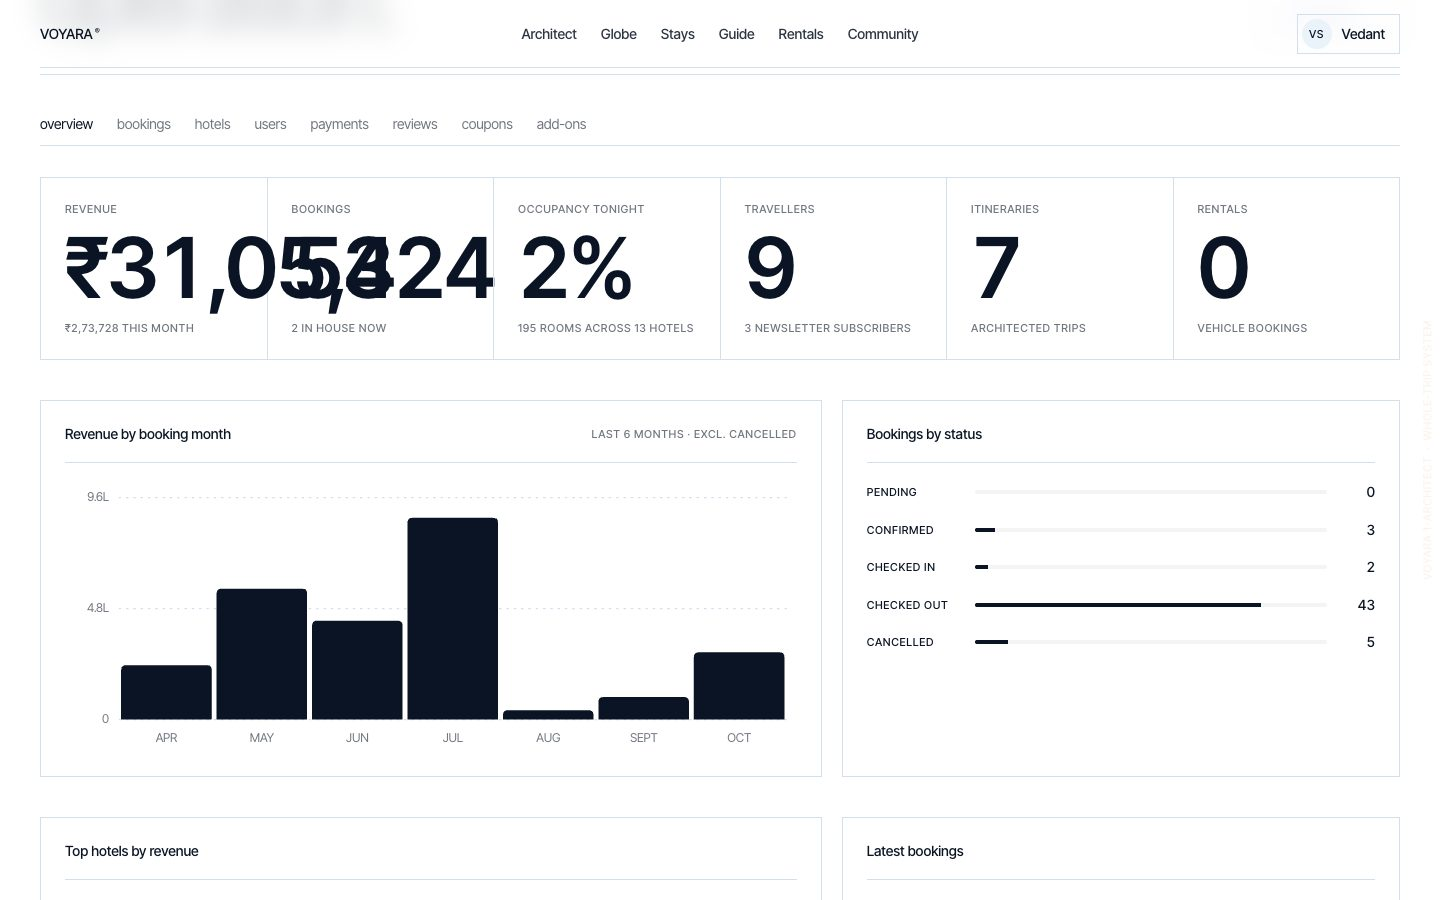
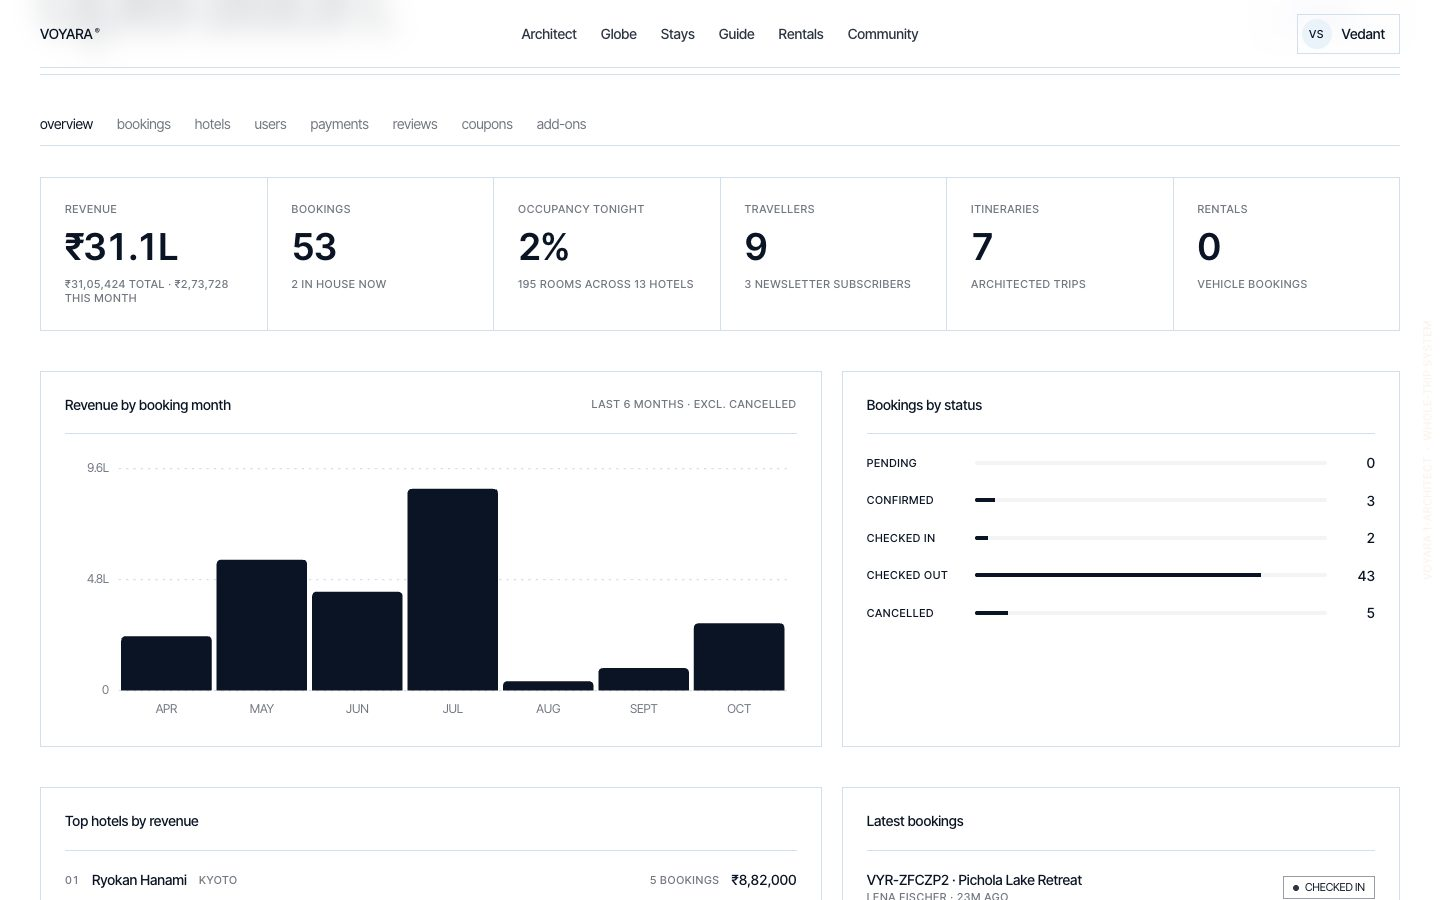
Fix admin stat overflow and README screen sizes
- Admin stat tiles: values sized to fit their cells; revenue shown as ₹31.1L
  with the exact total underneath (it overlapped the Bookings tile).
- Booking ticket reference uses heading size; display headlines leave room
  for descenders ("going." no longer clipped).
- README Screens: fixed-width image pairs instead of nested tables, refreshed
  admin and ticket screenshots.

diff --git a/frontend/src/pages/AdminDashboard.tsx b/frontend/src/pages/AdminDashboard.tsx
@@ -65,7 +65,7 @@ function Overview() {
   if (loading || !data) return <div className="grid-4">{Array.from({ length: 8 }, (_, i) => <div key={i} className="skeleton" style={{ height: 120 }} />)}</div>;
   const t = data.totals;
   const tiles: [string, string, string?][] = [
-    ['Revenue', money(t.revenue), `${money(t.revenueThisMonth)} this month`],
+    ['Revenue', `₹${compact(t.revenue)}`, `${money(t.revenue)} total · ${money(t.revenueThisMonth)} this month`],
     ['Bookings', String(t.bookings), `${t.checkedIn} in house now`],
     ['Occupancy tonight', `${t.occupancy}%`, `${t.rooms} rooms across ${t.hotels} hotels`],
     ['Travellers', String(t.users), `${t.subscribers} newsletter subscribers`],
@@ -80,7 +80,7 @@ function Overview() {
         {tiles.map(([l, v, s]) => (
           <div key={l} className="stat">
             <span className="micro dim">{l}</span>
-            <span className="display tabular">{v}</span>
+            <span className="stat-value tabular">{v}</span>
             {s && <span className="micro dim">{s}</span>}
           </div>
         ))}

diff --git a/frontend/src/pages/BookingConfirmation.tsx b/frontend/src/pages/BookingConfirmation.tsx
@@ -77,7 +77,7 @@ export default function BookingConfirmation() {
           <div className="ticket-top">
             <div className="stack-sm">
               <span className="micro">Reference</span>
-              <span className="display tabular">{b.reference}</span>
+              <span className="heading tabular">{b.reference}</span>
             </div>
             <QR value={`${window.location.origin}/bookings/${b.reference}`} size={150} />
           </div>

diff --git a/frontend/src/styles/pages.css b/frontend/src/styles/pages.css
@@ -977,3 +977,17 @@
   padding-top: 6px;
   margin-top: 6px;
 }
+
+/* Admin stat tiles: values must fit their cell (₹ crore figures are long) */
+.stat {
+  min-width: 0;
+}
+.stat-value {
+  font-size: clamp(26px, 1.6vw + 14px, 44px);
+  font-weight: 600;
+  line-height: 1;
+  letter-spacing: -0.03em;
+  white-space: nowrap;
+  overflow: hidden;
+  text-overflow: ellipsis;
+}

diff --git a/frontend/src/styles/components.css b/frontend/src/styles/components.css
@@ -785,6 +785,9 @@ a:hover .media img,
 .lines > span {
   display: block;
   overflow: hidden;
+  /* room for descenders (g, y, p) under the tight display leading */
+  padding-bottom: 0.12em;
+  margin-bottom: -0.12em;
 }
 .lines > span > span {
   display: block;

diff --git a/README.md b/README.md
@@ -86,30 +86,34 @@ Scrolling the homepage *types* a trip and the product answers, step by step.
 
 ## 🖼 &nbsp;Screens
 
-<table>
-  <tr>
-    <td width="50%"><img src="docs/screens/10-trip-hero.jpg" alt="Multi-city trip" /><p align="center"><sub><b>Multi-city trip</b> — route strip, flight legs, cost & FX</sub></p></td>
-    <td width="50%"><img src="docs/screens/11-trip-days.jpg" alt="Day by day" /><p align="center"><sub><b>Day by day</b> — timeline, live map, rain plans</sub></p></td>
-  </tr>
-  <tr>
-    <td><img src="docs/screens/12-hotel.jpg" alt="Hotel page" /><p align="center"><sub><b>Hotel</b> — gallery, live rooms, add-ons, coupons, quote</sub></p></td>
-    <td><img src="docs/screens/13-explore.jpg" alt="Explore stays" /><p align="center"><sub><b>Stays</b> — dates, guests, filters, map view</sub></p></td>
-  </tr>
-  <tr>
-    <td><img src="docs/screens/14-ticket.jpg" alt="Booking confirmation" /><p align="center"><sub><b>Confirmation</b> — boarding-pass ticket, QR, PDF invoice</sub></p></td>
-    <td><img src="docs/screens/16-admin.jpg" alt="Admin console" /><p align="center"><sub><b>Admin</b> — revenue, occupancy, status, top hotels</sub></p></td>
-  </tr>
-  <tr>
-    <td><img src="docs/screens/15-staff.jpg" alt="Front desk" /><p align="center"><sub><b>Front desk</b> — arrivals, departures, in-house</sub></p></td>
-    <td>
-      <table><tr>
-        <td><img src="docs/screens/17-mobile-hero.jpg" alt="Mobile hero" /></td>
-        <td><img src="docs/screens/18-mobile-globe.jpg" alt="Mobile globe" /></td>
-      </tr></table>
-      <p align="center"><sub><b>Mobile</b> — every page, zero sideways scroll</sub></p>
-    </td>
-  </tr>
-</table>
+<p align="center">
+  <img src="docs/screens/10-trip-hero.jpg" alt="Multi-city trip — route strip, flight legs, cost and FX" width="48%" />
+  &nbsp;
+  <img src="docs/screens/11-trip-days.jpg" alt="Day by day — timeline, live map, rain plans" width="48%" />
+  <br/><sub><b>Multi-city trip</b> — route strip, flight legs, cost & FX &nbsp;·&nbsp; <b>Day by day</b> — timeline, live map, rain plans</sub>
+</p>
+
+<p align="center">
+  <img src="docs/screens/12-hotel.jpg" alt="Hotel — gallery, live rooms, add-ons, coupons, quote" width="48%" />
+  &nbsp;
+  <img src="docs/screens/13-explore.jpg" alt="Stays — dates, guests, filters, map view" width="48%" />
+  <br/><sub><b>Hotel</b> — gallery, live rooms, add-ons, coupons, quote &nbsp;·&nbsp; <b>Stays</b> — dates, guests, filters, map</sub>
+</p>
+
+<p align="center">
+  <img src="docs/screens/14-ticket.jpg" alt="Confirmation — boarding-pass ticket, QR, PDF invoice" width="48%" />
+  &nbsp;
+  <img src="docs/screens/16-admin.jpg" alt="Admin — revenue, occupancy, status, top hotels" width="48%" />
+  <br/><sub><b>Confirmation</b> — boarding-pass ticket, QR, PDF invoice &nbsp;·&nbsp; <b>Admin</b> — revenue, occupancy, status</sub>
+</p>
+
+<p align="center">
+  <img src="docs/screens/15-staff.jpg" alt="Front desk — arrivals, departures, in-house" width="48%" />
+  &nbsp;
+  <img src="docs/screens/17-mobile-hero.jpg" alt="Mobile hero" width="23%" />
+  <img src="docs/screens/18-mobile-globe.jpg" alt="Mobile globe" width="23%" />
+  <br/><sub><b>Front desk</b> — arrivals, departures, in-house &nbsp;·&nbsp; <b>Mobile</b> — every page, zero sideways scroll</sub>
+</p>
 
 ## 🧱 &nbsp;Architecture
 
